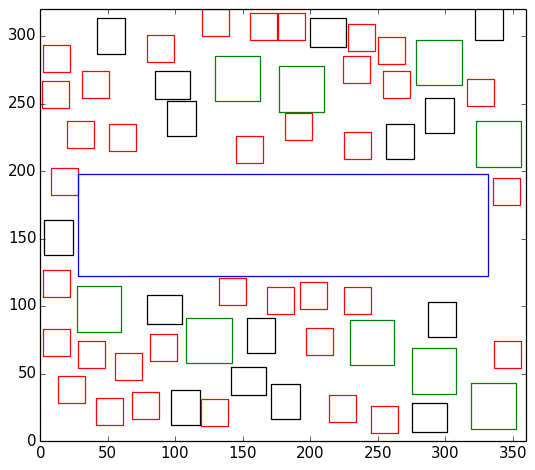
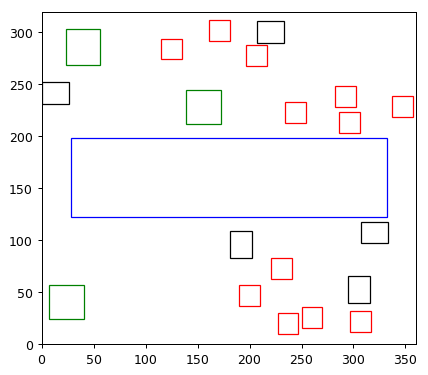
update

Changed region(s): [[0.0, 0.0, 1.0, 0.9973], [0.7897, 0.0587, 0.8505, 0.088], [0.243, 0.264, 0.2734, 0.3227]]

diff --git a/amstelhaegen_algoritme.py b/amstelhaegen_algoritme.py
@@ -14,8 +14,8 @@ import math
 
 start = timeit.default_timer()
 
-ITERATIONS = 1000
-TOTAL_HOUSES = 60
+ITERATIONS = 1000000
+TOTAL_HOUSES = 20
 X_DIMENSION = 360
 Y_DIMENSION = 320
 best_iteration = 0
@@ -78,12 +78,13 @@ def b_build(buildings, waters, b_counter):
 	xrandom = random.randint(0, X_DIMENSION - classes.Bungalow.width)
 	yrandom = random.randint(0, Y_DIMENSION - classes.Bungalow.length)
 	bungalow = classes.Bungalow(xrandom, yrandom)
-	if random.choice((True, False)):
-		if True:
-			bungalow.length, bungalow.width = bungalow.width, bungalow.length
-			bungalow.left_top[1] = yrandom + bungalow.length
-			bungalow.right_top = [xrandom + bungalow.width, yrandom + bungalow.length]
-			bungalow.right_bottom[0] = xrandom + bungalow.width
+
+	choice = random.getrandbits(1)
+	if choice:
+		bungalow.length, bungalow.width = bungalow.width, bungalow.length
+		bungalow.left_top[1] = yrandom + bungalow.length
+		bungalow.right_top = [xrandom + bungalow.width, yrandom + bungalow.length]
+		bungalow.right_bottom[0] = xrandom + bungalow.width
 
 	olap = True
 	if overlap(waters[0], bungalow):
@@ -108,12 +109,12 @@ def m_build(buildings, waters, m_counter):
 	yrandom = random.randint(0, Y_DIMENSION - classes.Maison.length)
 	maison = classes.Maison(xrandom, yrandom)
 	# random: length, width = width, length
-	if random.choice((True, False)):
-		if True:
-			maison.length, maison.width = maison.width, maison.length
-			maison.left_top[1] = yrandom + maison.length
-			maison.right_top = [xrandom + maison.width, yrandom + maison.length]
-			maison.right_bottom[0] = xrandom + maison.width
+	choice = random.getrandbits(1)
+	if choice:
+		maison.length, maison.width = maison.width, maison.length
+		maison.left_top[1] = yrandom + maison.length
+		maison.right_top = [xrandom + maison.width, yrandom + maison.length]
+		maison.right_bottom[0] = xrandom + maison.width
 
 	olap = True
 	if overlap(waters[0], maison):
@@ -266,7 +267,6 @@ if __name__ == "__main__":
 		waters = []
 
 		waters.append(classes.Water(28.2, 122.05, 75.89, 303.58))
-
 
 		# append first house to array 'buildings'
 		buildings.append(classes.House(X_DIMENSION, Y_DIMENSION))
